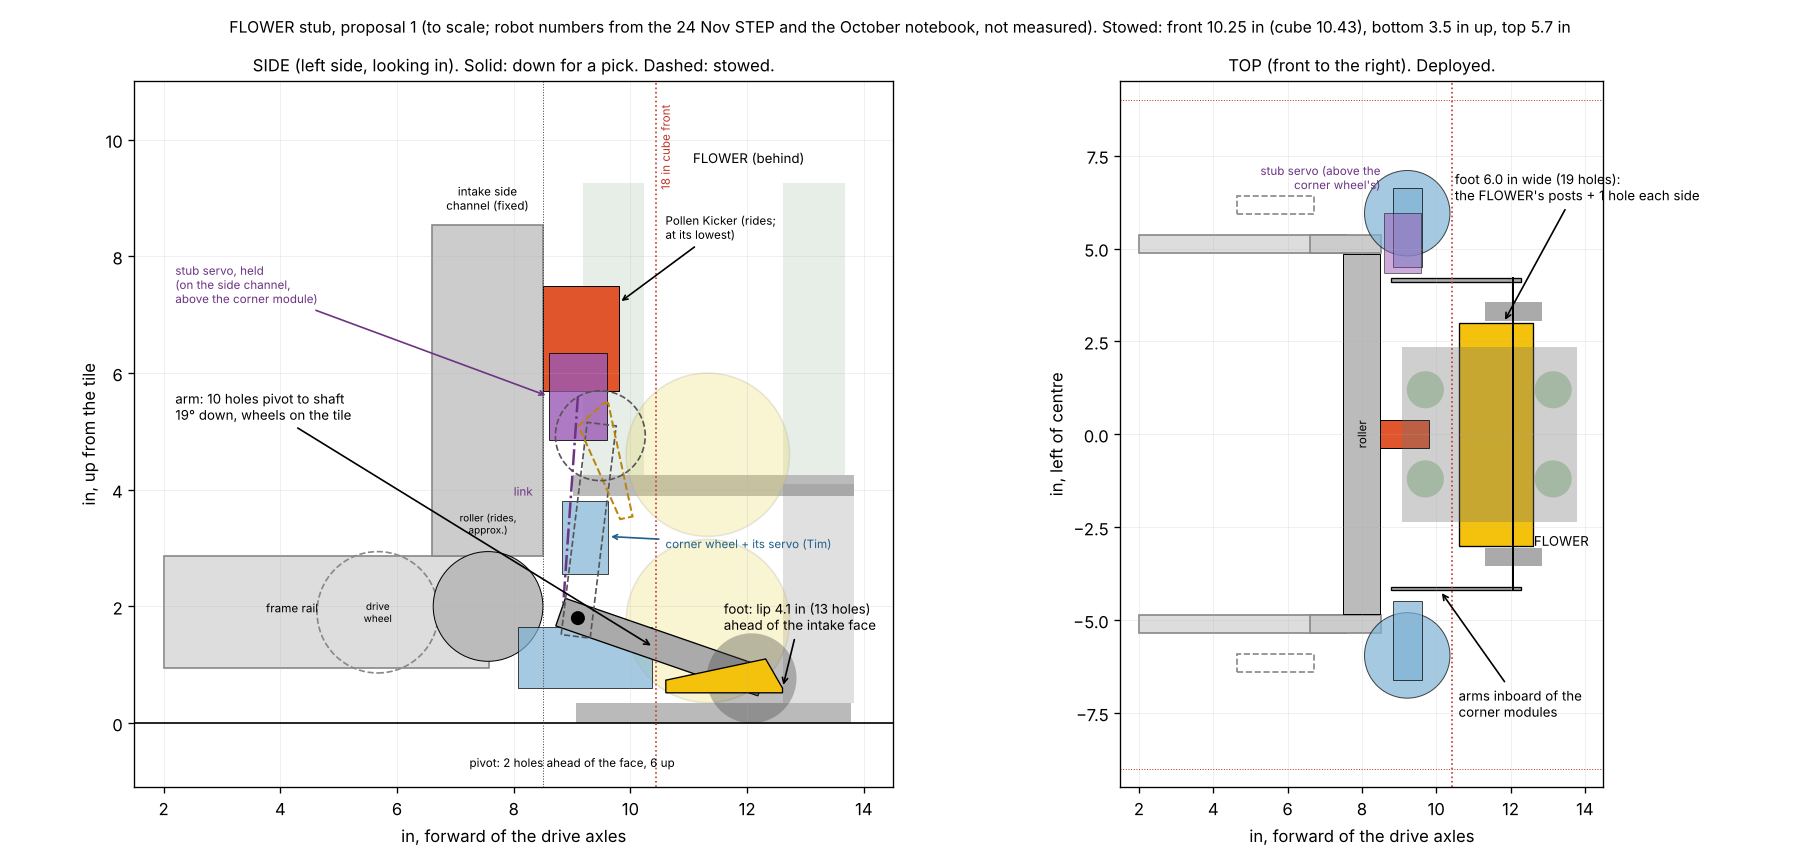
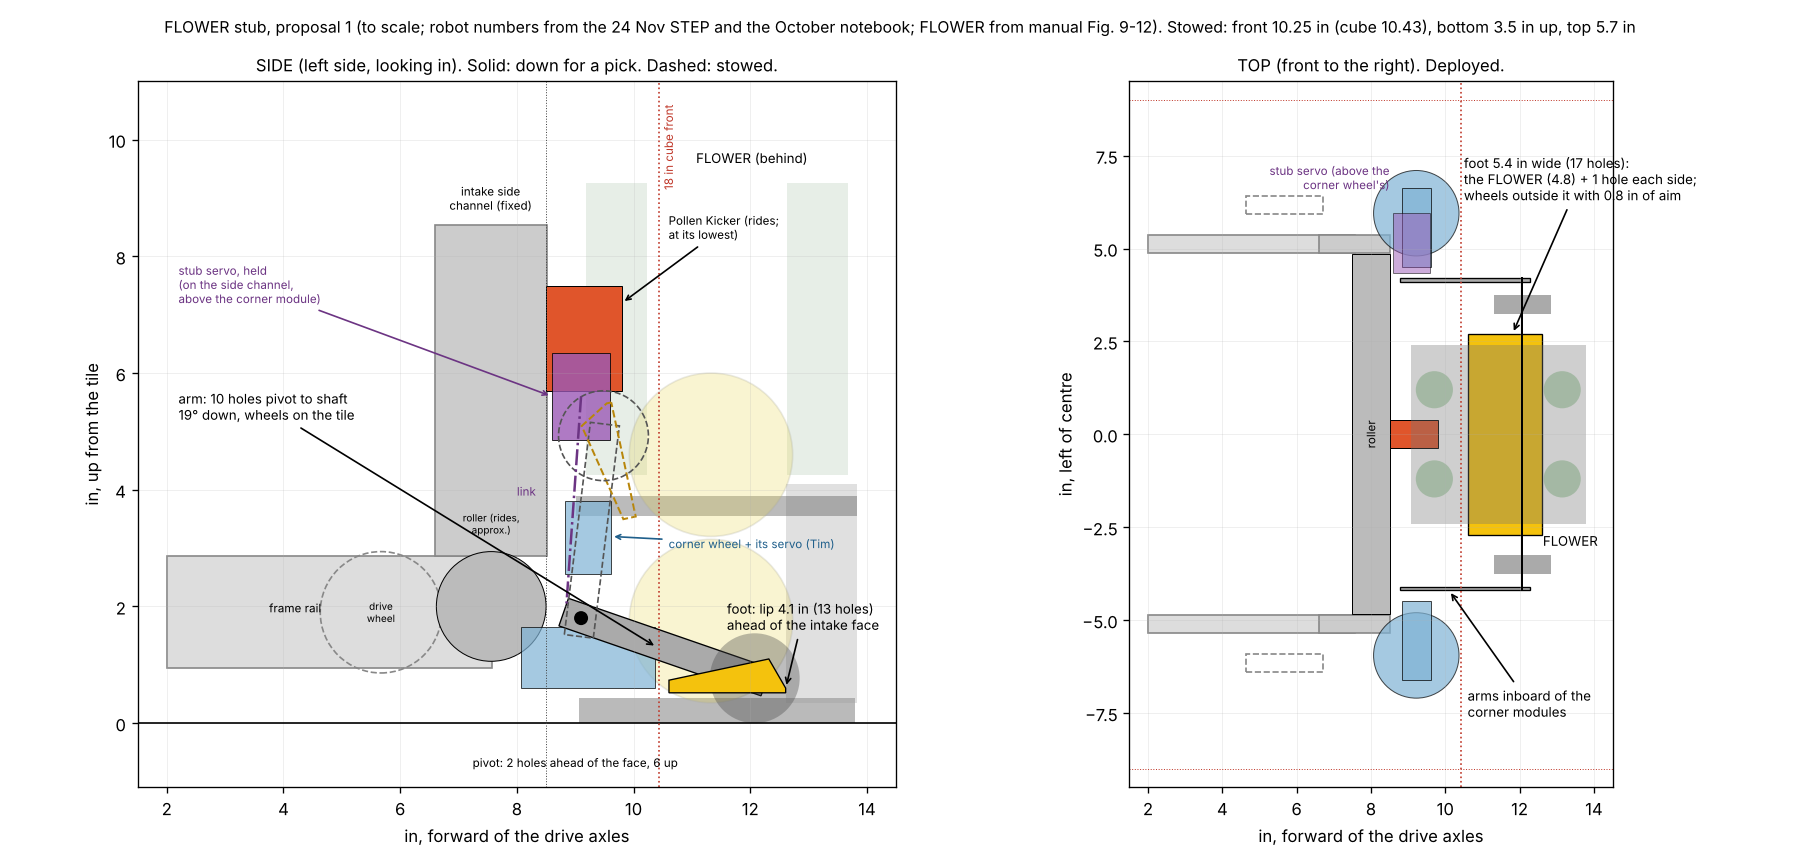
FLOWER stub proposal: the FLOWER from the manual (Fig. 9-12), a 5.4 in foot, wheels outside the FLOWER
Claude-Session: https://claude.ai/code/session_01TTqzV3ZdtMejucd36mS6bu

diff --git a/cad/flower-stub/proposal.py b/cad/flower-stub/proposal.py
@@ -29,8 +29,8 @@ PIVOT = np.array([9.1, 1.8])          # X, Z: 0.6 in (2 holes) ahead of the face
 ARM_Y = (4.10, 4.20)                  # each arm, a flat pattern bar, inboard of the corner module
 ARM_HOLES = 10                        # pivot to shaft, 80 mm
 SHAFT_Z, WHEEL_R = 0.77, 0.77         # 8 mm REX shaft on two 39 mm wheels
-WHEEL_Y = (3.05, 3.55)
-BLADE_HALF_W = 3.0                    # 6.0 in: the FLOWER's posts (5.4) plus one hole each side
+WHEEL_Y = (3.25, 3.75)                # outside the FLOWER (2.40 each side) plus 0.8 in of aim
+BLADE_HALF_W = 2.7                    # 5.4 in: the FLOWER (4.8 in, manual Fig. 9-12) plus one hole each side
 SHAFT_BACK = 0.53                     # lip to shaft, the notebook's mountain blade
 TAIL_CUT = 2.0
 STOW_DEG = 83
@@ -79,8 +79,8 @@ ax.plot([SERVO[0] + 0.5, PIVOT[0] - 0.25], [5.6, PIVOT[1] + 0.25], color="#6c348
 ax.text(8.0, 3.9, "link", fontsize=7, color="#6c3483")
 # FLOWER
 fx = flower_x
-ax.add_patch(Rectangle((fx - 2.36, 0), 4.72, 0.35, fc="#777", alpha=0.5, zorder=0)); ax.add_patch(Rectangle((fx + 1.18, 0.35), 1.22, 3.75, fc="#999", alpha=0.3, zorder=0))
-ax.add_patch(Rectangle((fx - 2.41, 3.9), 4.82, 0.35, fc="#555", alpha=0.4, zorder=0))
+ax.add_patch(Rectangle((fx - 2.36, 0), 4.72, 0.43, fc="#777", alpha=0.5, zorder=0)); ax.add_patch(Rectangle((fx + 1.18, 0.35), 1.22, 3.75, fc="#999", alpha=0.3, zorder=0))
+ax.add_patch(Rectangle((fx - 2.41, 3.55), 4.82, 0.35, fc="#555", alpha=0.4, zorder=0))
 for sg in (1, -1): ax.add_patch(Rectangle((fx + sg * 1.72 - 0.525, 4.25), 1.05, 5.0, fc="#8a8", alpha=0.2, zorder=0))
 for bz in (1.75, 4.6): ax.add_patch(Circle((fx - 0.1, bz), 1.4, fc="#e8d44a", ec="#aa9", alpha=0.25, zorder=0))
 ax.text(fx + 0.6, 9.6, "FLOWER (behind)", fontsize=8, ha="center")
@@ -118,19 +118,19 @@ at.add_patch(Rectangle((FACE - 1.0, -4.84), 1.0, 9.68, fc="#bbb", ec="k", lw=0.6
 at.add_patch(Rectangle((KICKER[0], -KICKER[4]), KICKER[1] - KICKER[0], 2 * KICKER[4], fc="#e0552b", ec="k", lw=0.6))
 at.plot([shaft[0], shaft[0]], [-ARM_Y[1], ARM_Y[1]], color="k", lw=1.2)
 at.add_patch(Rectangle((lip - TAIL_CUT, -BLADE_HALF_W), TAIL_CUT, 2 * BLADE_HALF_W, fc="#f4c20d", ec="k", lw=0.8))
-at.add_patch(Rectangle((flower_x - 2.36, -2.36), 4.72, 4.72, fc="#777", alpha=0.35))
+at.add_patch(Rectangle((flower_x - 2.36, -2.40), 4.72, 4.80, fc="#777", alpha=0.35))
 for sx in (1, -1):
     for sy in (1, -1): at.add_patch(Circle((flower_x + sx * 1.72, sy * 1.2), 0.5, fc="#8a8", alpha=0.6))
 at.text(flower_x + 1.2, -3.0, "FLOWER", fontsize=8)
 at.axvline(BOX_FRONT, color="#c0392b", lw=1, ls=":")
 at.axhline(9.0, color="#c0392b", lw=0.6, ls=":"); at.axhline(-9.0, color="#c0392b", lw=0.6, ls=":")
-at.annotate(f"foot {2 * BLADE_HALF_W:.1f} in wide ({2 * BLADE_HALF_W / HOLE:.0f} holes):\nthe FLOWER's posts + 1 hole each side", (lip - 0.8, BLADE_HALF_W), (10.5, 6.3), fontsize=8, arrowprops=dict(arrowstyle="->"))
+at.annotate(f"foot {2 * BLADE_HALF_W:.1f} in wide ({2 * BLADE_HALF_W / HOLE:.0f} holes):\nthe FLOWER (4.8) + 1 hole each side;\nwheels outside it with 0.8 in of aim", (lip - 0.8, BLADE_HALF_W), (10.5, 6.3), fontsize=8, arrowprops=dict(arrowstyle="->"))
 at.annotate("arms inboard of the\ncorner modules", (PIVOT[0] + 1.0, -ARM_Y[1]), (10.6, -7.6), fontsize=8, arrowprops=dict(arrowstyle="->"))
 at.set_xlim(1.5, 14.5); at.set_ylim(-9.5, 9.5); at.set_aspect("equal"); at.grid(True, lw=0.3, alpha=0.4)
 at.set_title("TOP (front to the right). Deployed.", fontsize=10); at.set_xlabel("in, forward of the drive axles"); at.set_ylabel("in, left of centre")
 
 P = np.vstack([blade_s, [shaft_s + [WHEEL_R, 0]]])
-fig.suptitle(f"FLOWER stub, proposal 1 (to scale; robot numbers from the 24 Nov STEP and the October notebook, not measured). "
+fig.suptitle(f"FLOWER stub, proposal 1 (to scale; robot numbers from the 24 Nov STEP and the October notebook; FLOWER from manual Fig. 9-12). "
              f"Stowed: front {P[:, 0].max():.2f} in (cube {BOX_FRONT}), bottom {blade_s[:, 1].min():.1f} in up, top {max(blade_s[:, 1].max(), shaft_s[1] + WHEEL_R):.1f} in",
              fontsize=9.5)
 fig.tight_layout(); fig.savefig(os.path.join(HERE, "proposal.png"), dpi=120)
